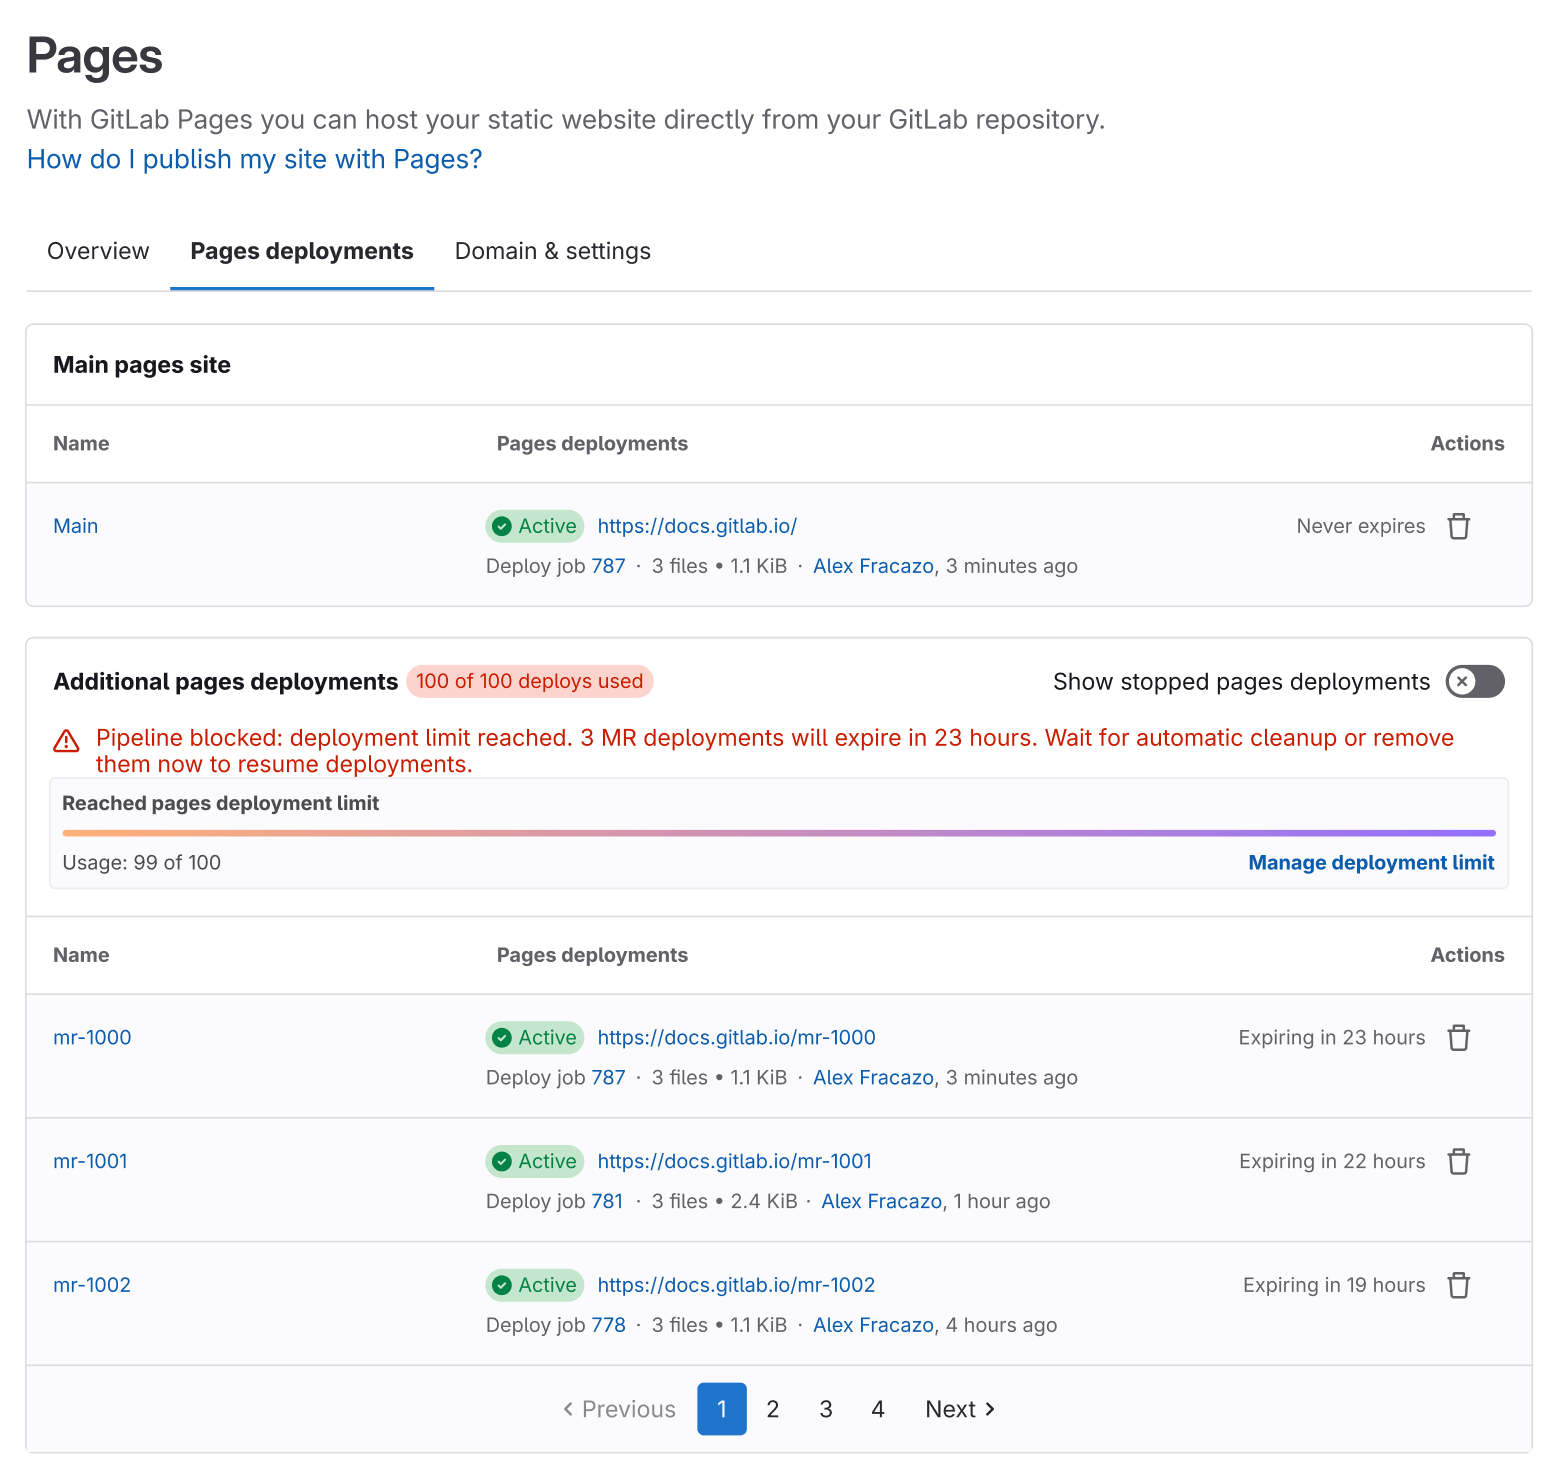
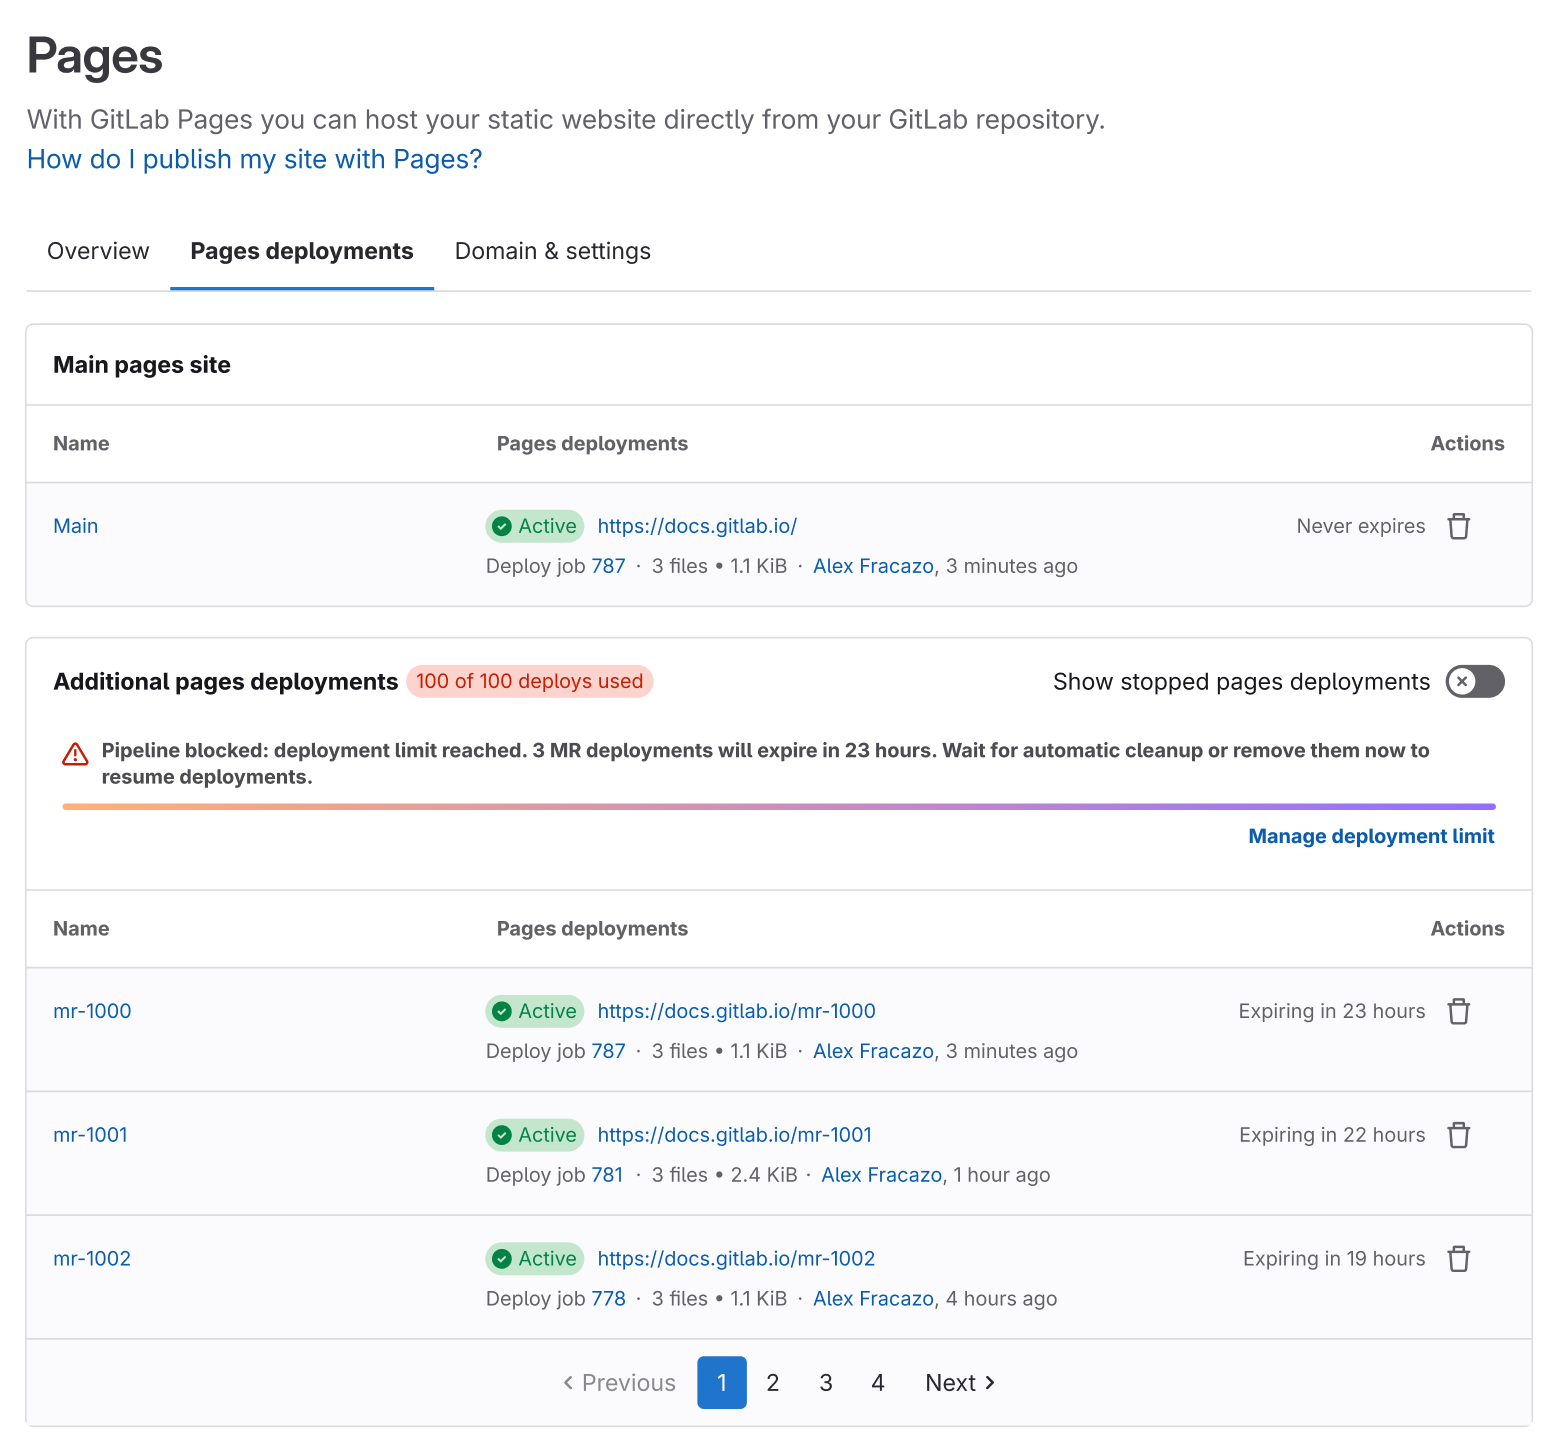
GitLab Pages: re-export the limit-reached screen
Fresh export of the Limit reached screen after the latest Figma pass: the warning is now a single message above a full usage bar and the Manage deployment limit link. The alt text follows.

diff --git a/src/components/case-studies/gitlab-pages.tsx b/src/components/case-studies/gitlab-pages.tsx
@@ -126,7 +126,7 @@ export function GitlabPagesContent({
               }}
               after={{
                 src: "/images/gitlab-pages-deployments-limit.webp",
-                alt: "Pages deployments tab at its limit: a red 100 of 100 deploys used badge, a red message saying the pipeline is blocked and that three merge request deployments expire in 23 hours, and a Reached pages deployment limit usage bar with a Manage deployment limit link",
+                alt: "Pages deployments tab at its limit: a red 100 of 100 deploys used badge, a warning that the pipeline is blocked and that three merge request deployments expire in 23 hours, a full usage bar, and a Manage deployment limit link",
               }}
               caption={<>The Pages deployments tab. Within the limit, the main site sits apart from merge request previews, with a toggle for stopped deployments. At the limit, the badge turns red and the block says the pipeline is blocked, when the next previews expire, and how to clear space.</>}
             />
